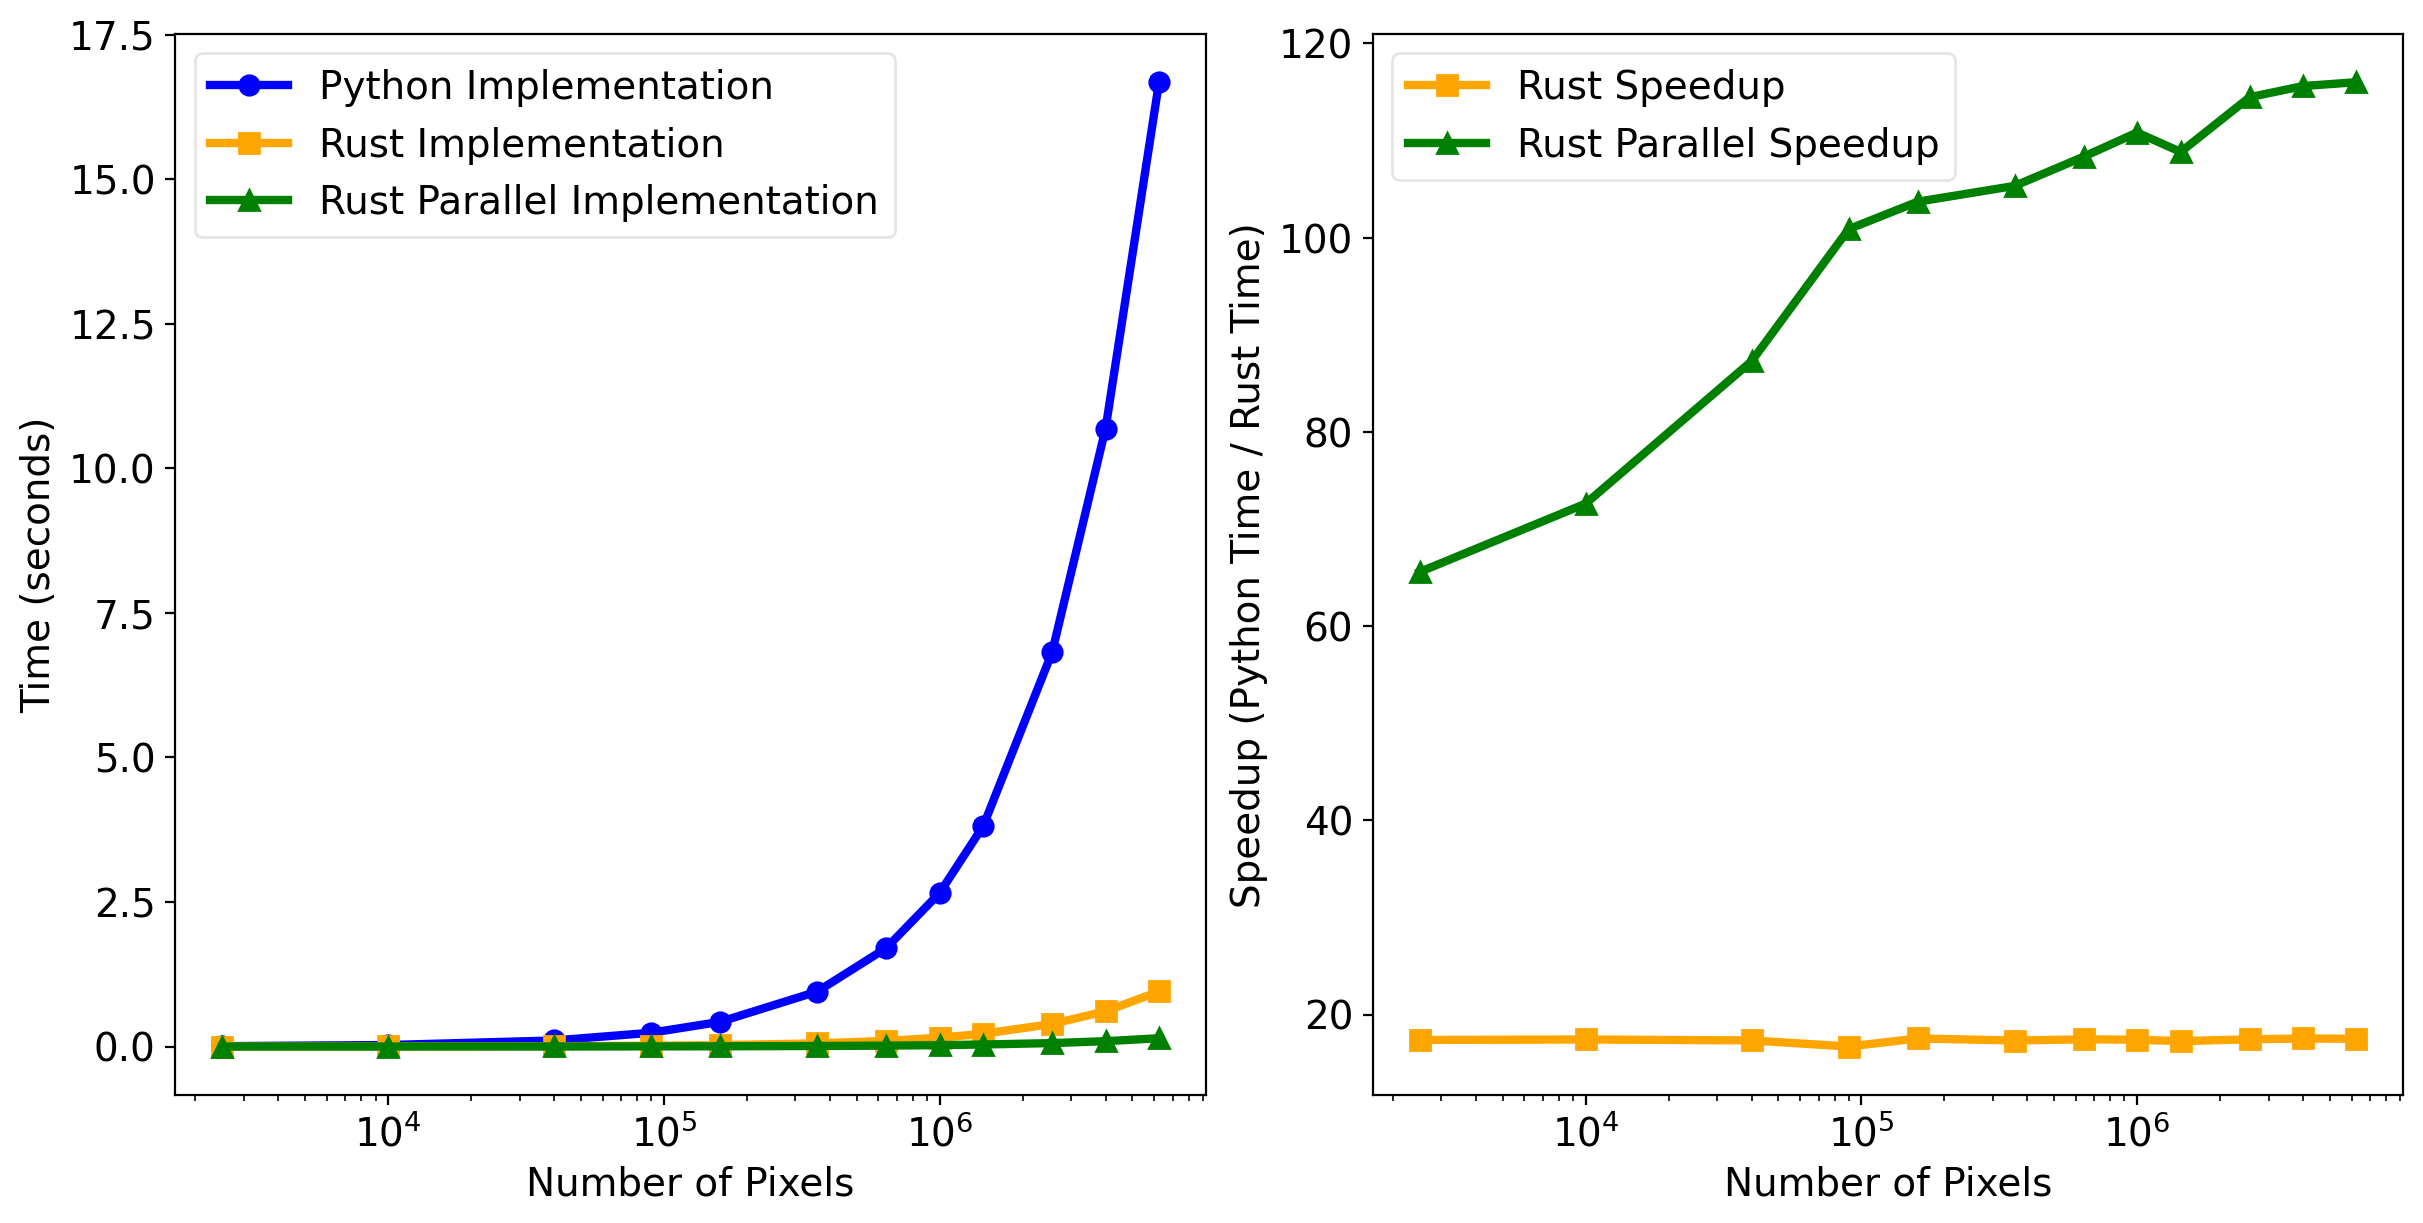
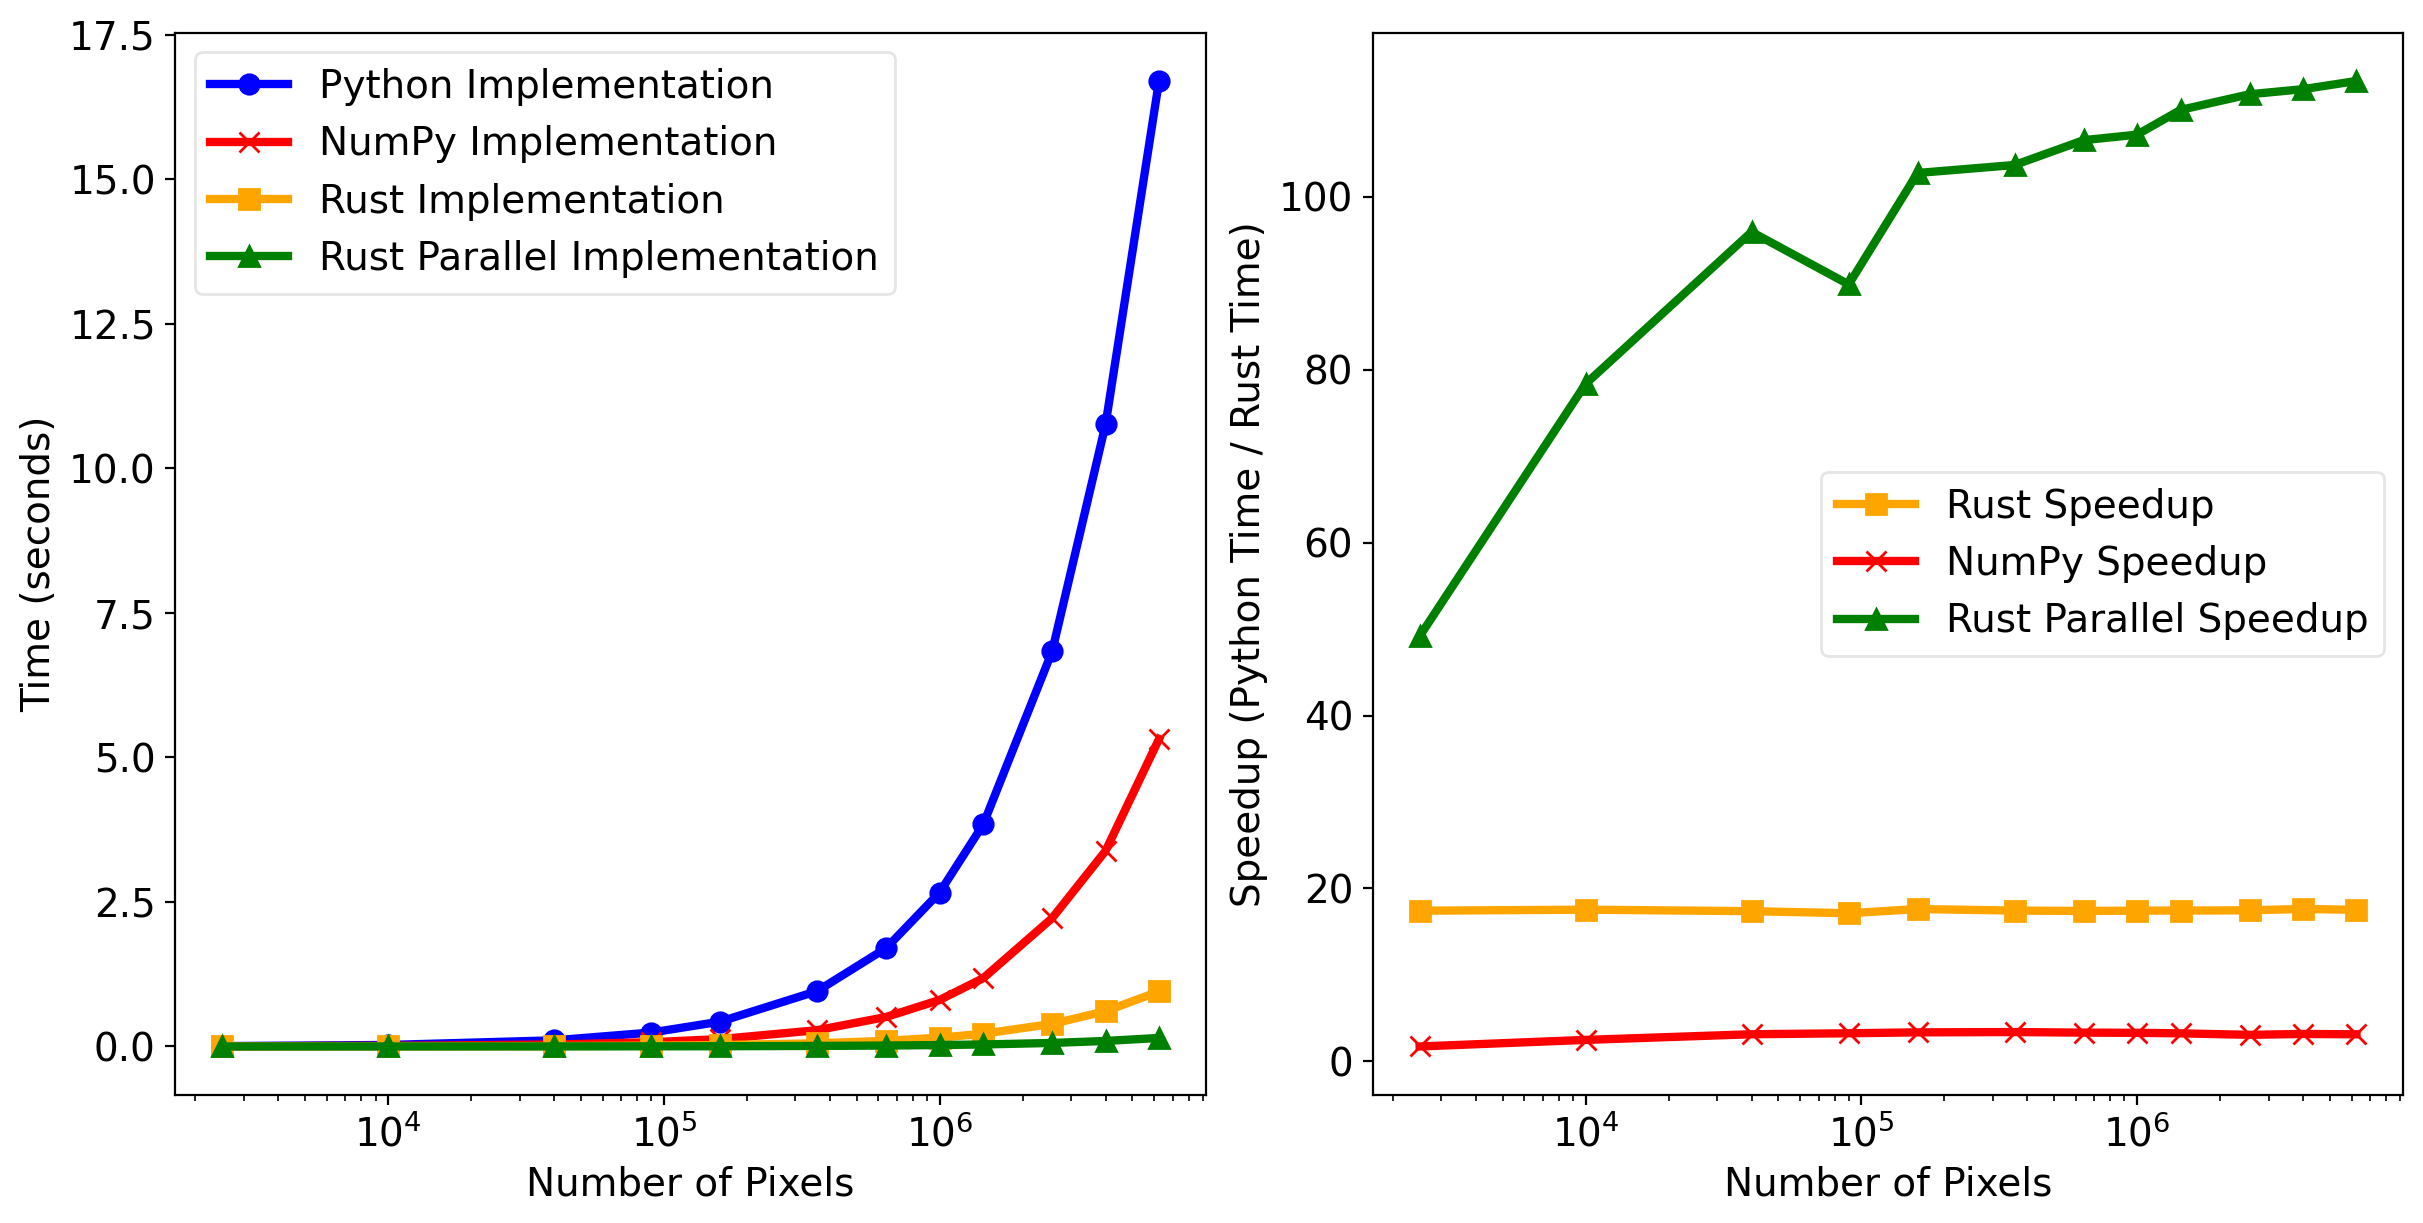
Refactoring and added numpy implementation.

diff --git a/scripts/bench.py b/scripts/bench.py
@@ -1,7 +1,13 @@
 import time
 import numpy as np
 import matplotlib.pyplot as plt
-from mandel_fast import py_mandelbrot, rs_mandelbrot, rs_mandelbrot_parallel
+from mandel_fast import (
+    py_mandelbrot,
+    rs_mandelbrot,
+    rs_mandelbrot_parallel,
+    np_mandelbrot,
+)
+
 
 def time_fn(fn, repeats=5):
     times = []
@@ -16,33 +22,41 @@ def time_fn(fn, repeats=5):
         times.append(time.perf_counter() - t0)
     return float(np.median(times))
 
+
 def main():
     # 2) Timing sweep
     sizes = [50, 100, 200, 300, 400, 600, 800, 1000, 1200, 1600, 2000, 2500]
     extent = (-2.0, 1.0, -1.2, 1.2)
     max_iter = 255
 
-    py_times, rs_times, rs_parallel_times = [], [], []
+    py_times, np_times, rs_times, rs_parallel_times = [], [], [], []
 
     for s in sizes:
         w = h = s
 
         py_t = time_fn(lambda: py_mandelbrot(w, h, max_iter, *extent), repeats=3)
+        np_t = time_fn(lambda: np_mandelbrot(w, h, max_iter, *extent), repeats=3)
         rs_t = time_fn(lambda: rs_mandelbrot(w, h, max_iter, *extent), repeats=5)
-        rs_parallel_t = time_fn(lambda: rs_mandelbrot_parallel(w, h, max_iter, *extent), repeats=5)
-
+        rs_parallel_t = time_fn(
+            lambda: rs_mandelbrot_parallel(w, h, max_iter, *extent), repeats=5
+        )
+        np_times.append(np_t)
         py_times.append(py_t)
         rs_times.append(rs_t)
         rs_parallel_times.append(rs_parallel_t)
-        
+
     pixels = np.array(sizes, dtype=float) ** 2
 
-    results = {'pixels': pixels,
-               'py_times': np.array(py_times),
-               'rs_times': np.array(rs_times), 
-               'rs_parallel_times': np.array(rs_parallel_times)}
-    
-    np.savez('bench_results.npz', **results)
+    results = {
+        "pixels": pixels,
+        "py_times": np.array(py_times),
+        "rs_times": np.array(rs_times),
+        "rs_parallel_times": np.array(rs_parallel_times),
+        "np_times": np.array(np_times),
+    }
+
+    np.savez("bench_results.npz", **results)
+
 
 if __name__ == "__main__":
     main()

diff --git a/mandel_fast/core/numpy_impl.py b/mandel_fast/core/numpy_impl.py
@@ -1,0 +1,55 @@
+import numpy as np
+
+
+def np_mandelbrot(
+    width: int,
+    height: int,
+    max_iter: int,
+    xmin: float,
+    xmax: float,
+    ymin: float,
+    ymax: float,
+) -> np.ndarray:
+    """
+    Compute a Mandelbrot set image using NumPy
+
+    Parameters
+    -----------
+    width : int
+        Width of the output image in pixels.
+    height : int
+        Height of the output image in pixels.
+    max_iter : int
+        Maximum number of iterations to determine set membership.
+    xmin : float
+        Minimum x-coordinate (real part).
+    xmax : float
+        Maximum x-coordinate (real part).
+    ymin : float
+        Minimum y-coordinate (imaginary part).
+    ymax : float
+        Maximum y-coordinate (imaginary part).
+    """
+
+    out = np.zeros((height, width), dtype=np.uint16)
+
+    i = np.arange(width, dtype=np.float64)
+    j = np.arange(height, dtype=np.float64)
+    x = xmin + (xmax - xmin) * i / max(width - 1, 1)
+    y = ymin + (ymax - ymin) * j / max(height - 1, 1)
+    X, Y = np.meshgrid(x, y)
+
+    C = X + 1j * Y
+    Z = np.zeros((height, width), dtype=np.complex128)
+
+    mask = np.full((height, width), True, dtype=bool)
+    for _ in range(max_iter):
+        out[mask] += 1
+        Z[mask] = Z[mask] * Z[mask] + C[mask]
+        escaped = (Z.real * Z.real + Z.imag * Z.imag) > 4.0
+        mask &= ~escaped
+        if not mask.any():
+            break
+
+    out[mask] = max_iter
+    return out

diff --git a/scripts/plot_benchmark.py b/scripts/plot_benchmark.py
@@ -18,12 +18,14 @@ def plot_benchmark_results(npz_file='bench_results.npz', output_file='benchmark_
     py_times = data['py_times']
     rs_times = data['rs_times']
     rs_parallel_times = data['rs_parallel_times']
+    np_times = data['np_times']
 
     fig, axes = plt.subplots(1, 2, figsize=(12, 6), layout='constrained')
 
 
     ax = axes[0]
     ax.plot(pixels, py_times, 'o-', label='Python Implementation', color='blue')
+    ax.plot(pixels, np_times, 'x-', label='NumPy Implementation', color='red')
     ax.plot(pixels, rs_times, 's-', label='Rust Implementation', color='orange')
     ax.plot(pixels, rs_parallel_times, '^-', label='Rust Parallel Implementation', color='green')
     ax.set_ylabel('Time (seconds)')
@@ -34,6 +36,7 @@ def plot_benchmark_results(npz_file='bench_results.npz', output_file='benchmark_
     # Second subplot: Speedup
     ax = axes[1]
     ax.plot(pixels, py_times / rs_times, 's-', label='Rust Speedup', color='orange')
+    ax.plot(pixels, py_times / np_times, 'x-', label='NumPy Speedup', color='red')
     ax.plot(pixels, py_times / rs_parallel_times, '^-', label='Rust Parallel Speedup', color='green')
     ax.set_ylabel('Speedup (Python Time / Rust Time)')
     ax.set_xlabel('Number of Pixels')

diff --git a/test/conftest.py b/test/conftest.py
@@ -1,5 +1,5 @@
 import pytest
-from mandel_fast import py_mandelbrot, rs_mandelbrot, rs_mandelbrot_parallel
+from mandel_fast import py_mandelbrot, rs_mandelbrot, rs_mandelbrot_parallel, np_mandelbrot
 
 @pytest.fixture(scope="module")
 def mandelbrot_settings():
@@ -27,3 +27,8 @@ def rs_mandelbrot_parallel_result(mandelbrot_settings):
     img = rs_mandelbrot_parallel(width, height, max_iter, *extent)
     return img
 
+@pytest.fixture()
+def np_mandelbrot_result(mandelbrot_settings):
+    width, height, max_iter, extent = mandelbrot_settings
+    img = np_mandelbrot(width, height, max_iter, *extent)
+    return img

diff --git a/test/ab_test.py b/test/ab_test.py
@@ -8,4 +8,6 @@ def test_rs_mandelbrot_parallel_vs_py(py_mandelbrot_result, rs_mandelbrot_parall
     """Test that the Rust parallel mandelbrot implementation matches the Python one."""
     np.testing.assert_array_equal(rs_mandelbrot_parallel_result, py_mandelbrot_result)
 
-
+def test_np_mandelbrot_vs_py(py_mandelbrot_result, np_mandelbrot_result):
+    """Test that the NumPy mandelbrot implementation matches the Python one."""
+    np.testing.assert_array_equal(np_mandelbrot_result, py_mandelbrot_result)

diff --git a/mandel_fast/__init__.py b/mandel_fast/__init__.py
@@ -1,4 +1,3 @@
-from .py_impl import py_mandelbrot
-from .rust_impl import rs_mandelbrot, rs_mandelbrot_parallel
+from .core import py_mandelbrot, rs_mandelbrot, rs_mandelbrot_parallel, np_mandelbrot
 
-__all__ = ["py_mandelbrot", "rs_mandelbrot", "rs_mandelbrot_parallel"]
+__all__ = ["py_mandelbrot", "rs_mandelbrot", "rs_mandelbrot_parallel", "np_mandelbrot"]

diff --git a/mandel_fast/core/__init__.py b/mandel_fast/core/__init__.py
@@ -1,0 +1,5 @@
+from .py_impl import py_mandelbrot
+from .rust_impl import rs_mandelbrot, rs_mandelbrot_parallel
+from .numpy_impl import np_mandelbrot
+
+__all__ = ["py_mandelbrot", "rs_mandelbrot", "rs_mandelbrot_parallel", "np_mandelbrot"]
